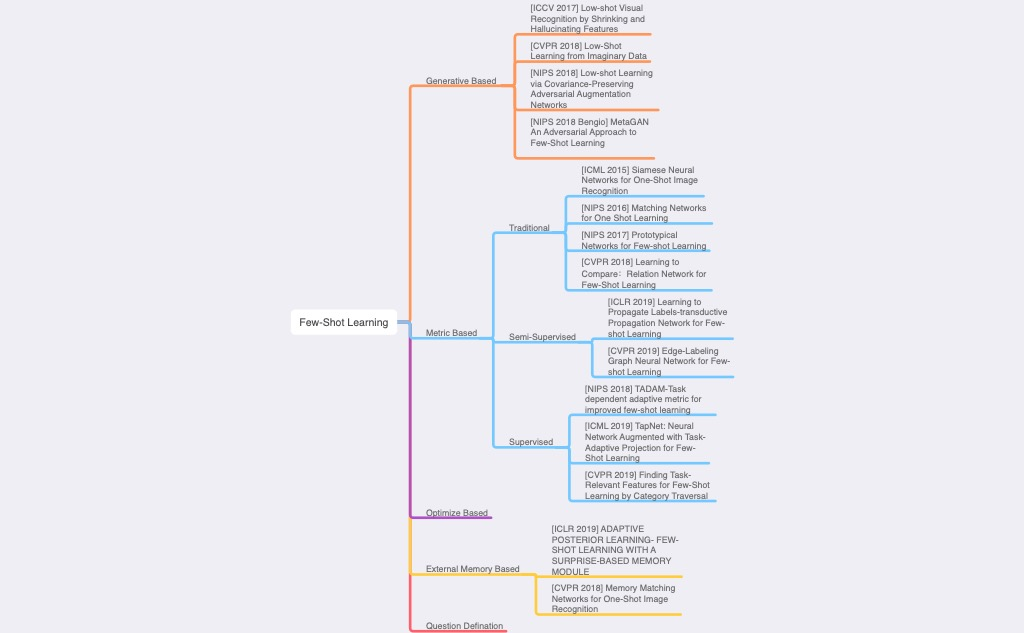
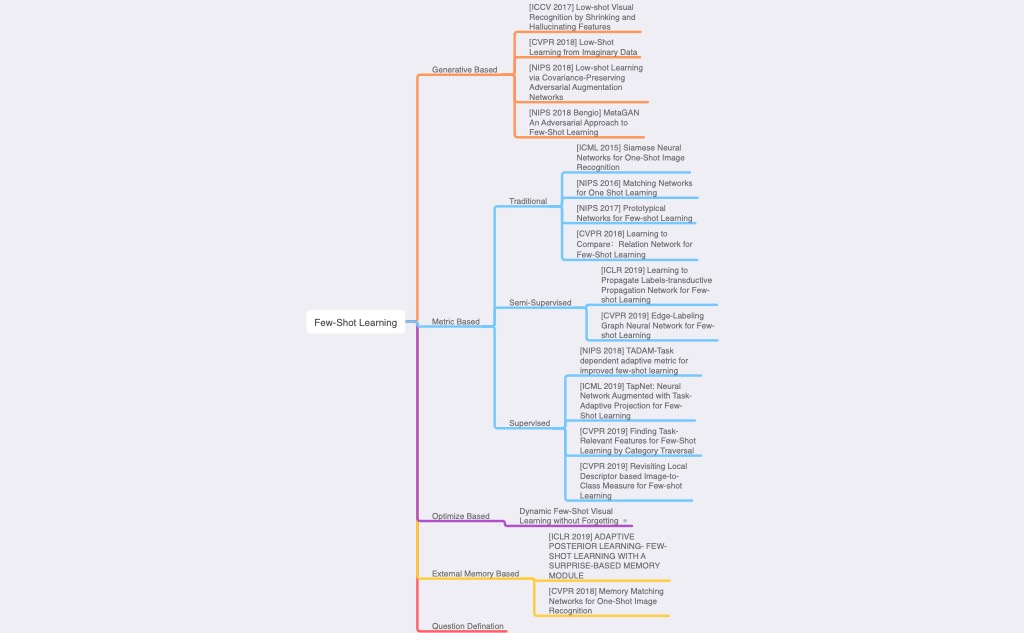
update two paper

Changed region(s): [[0.2812, 0.0, 0.7188, 1.0]]

diff --git a/README.md b/README.md
@@ -41,6 +41,7 @@ This Repo is used to Collect Few-shot Learning Area Papers, welcome to supplemen
 - [x] [ICLR 2017] Optimization as a Model for Few-shot Learning
 - [x] [CVPR 2019] Dense Classification and Implanting for Few-Shot Learning
 - [x] [ICML 2019] LGM-Net: Learning to Generate Matching Networks for Few shot Learning
+- [x] [CVPR 2018]Dynamic Few-Shot Visual Learning without Forgetting
 
 ## Generative Based Few-shot Learning
 ### Summary
@@ -72,6 +73,7 @@ This Repo is used to Collect Few-shot Learning Area Papers, welcome to supplemen
 - [x] [CVPR 2019] Finding Task-Relevant Features for Few-Shot Learning by Category Traversal
 
 - [x] [ICML 2019] TapNet: Neural Network Augmented with Task-Adaptive Projection for Few-Shot Learning
+- [x] [CVPR 2019] Revisiting Local Descriptor based Image-to-Class Measure for Few-shot Learning
 
 
 ## Special (such as Architecture?)
